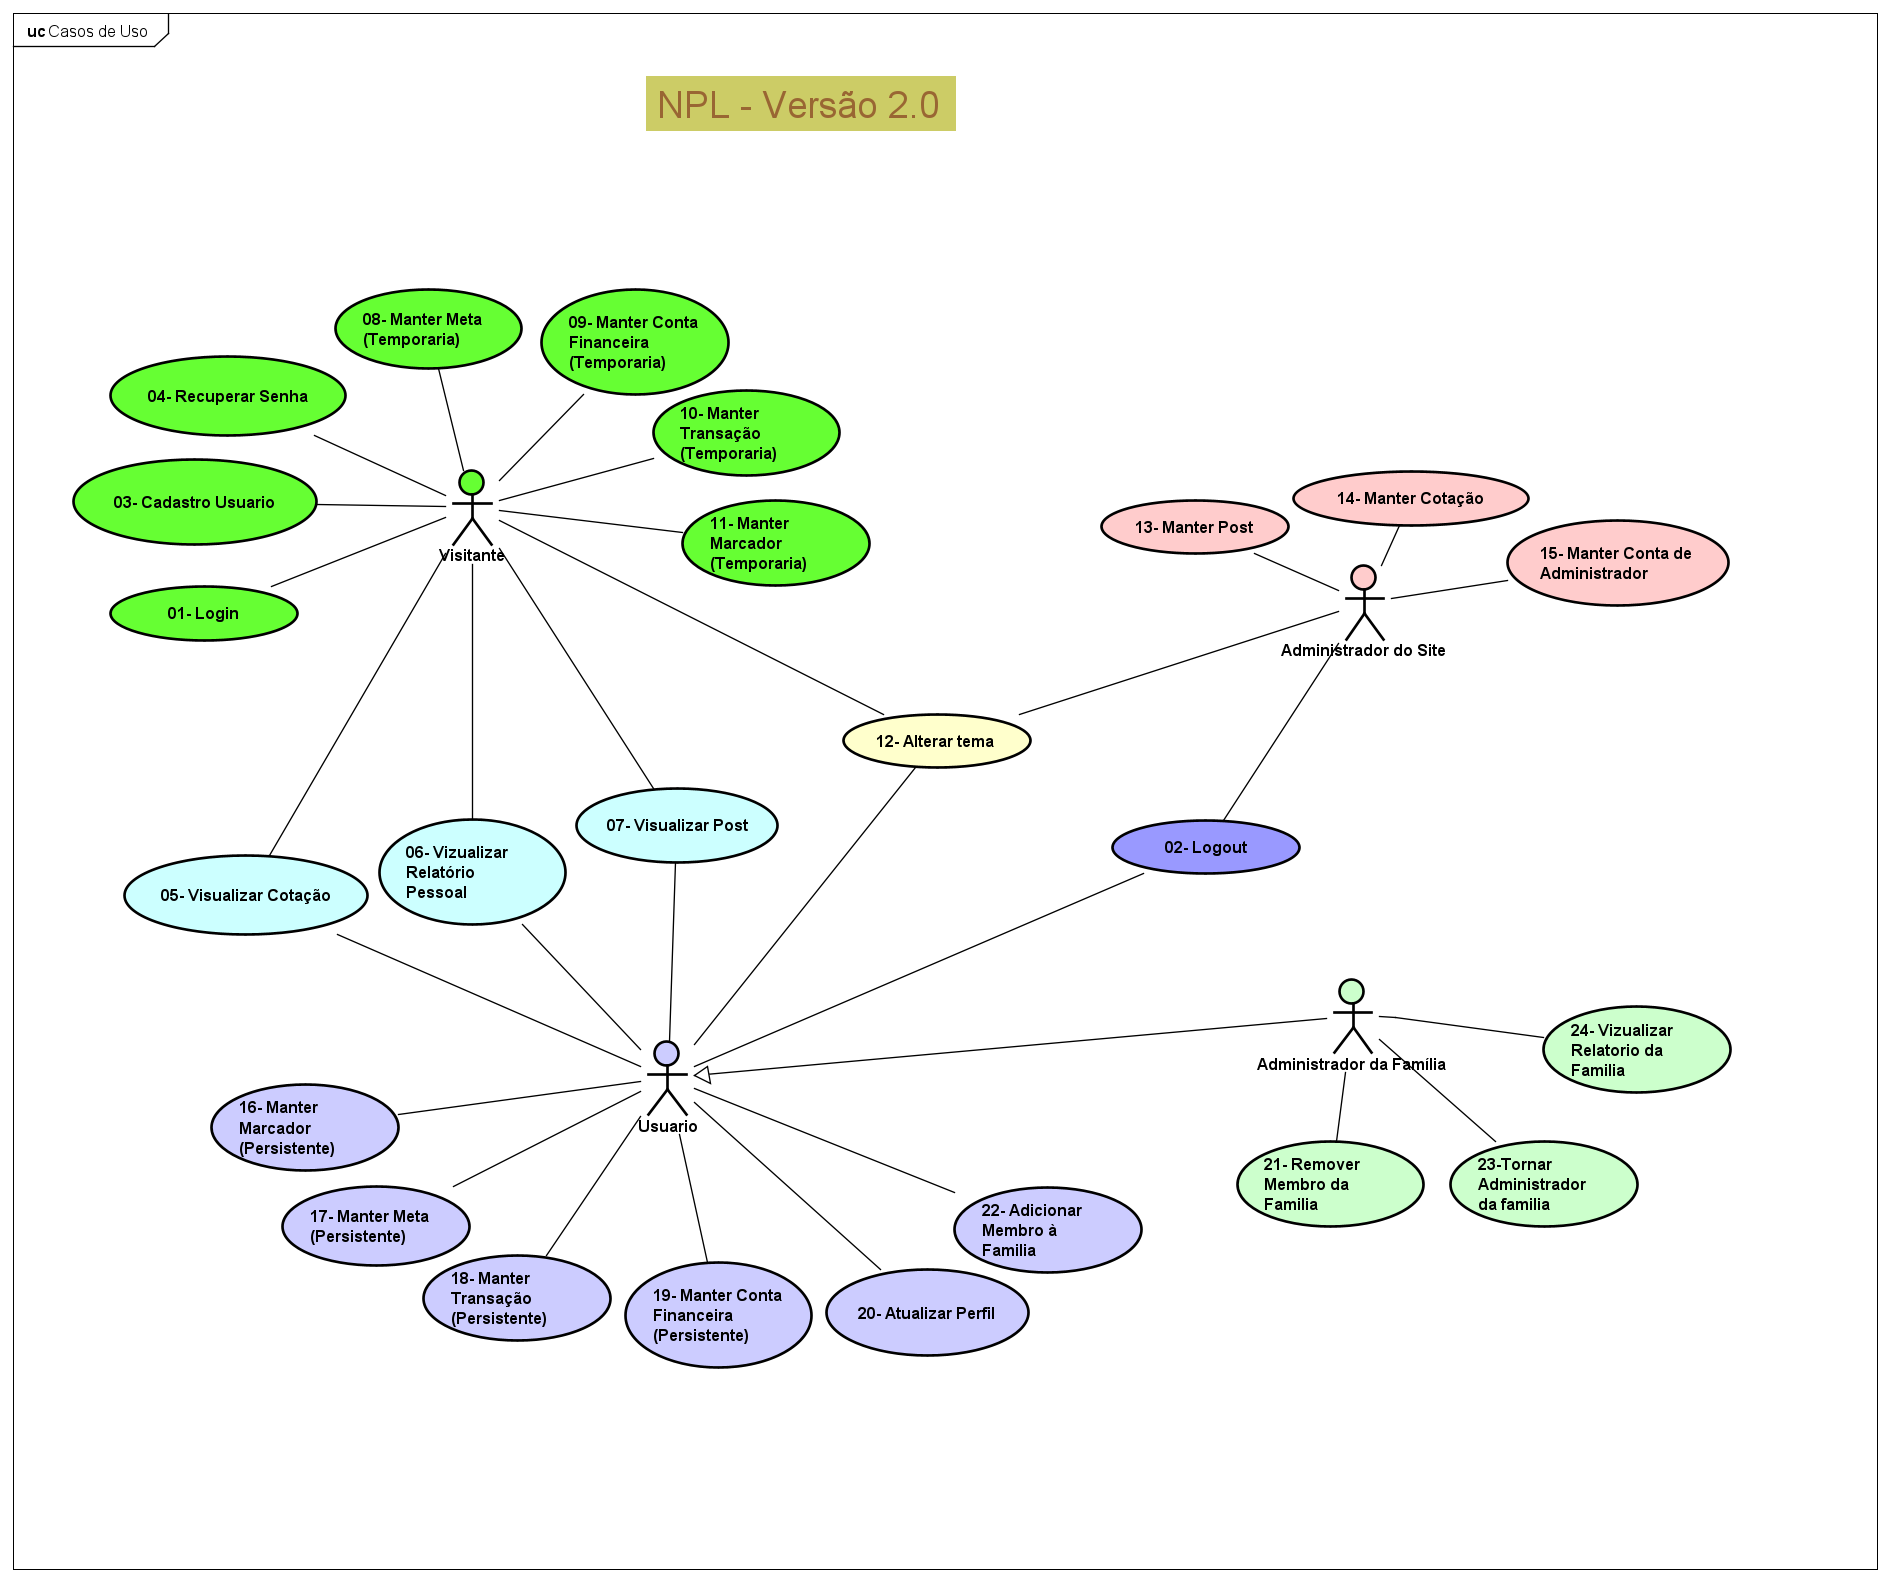
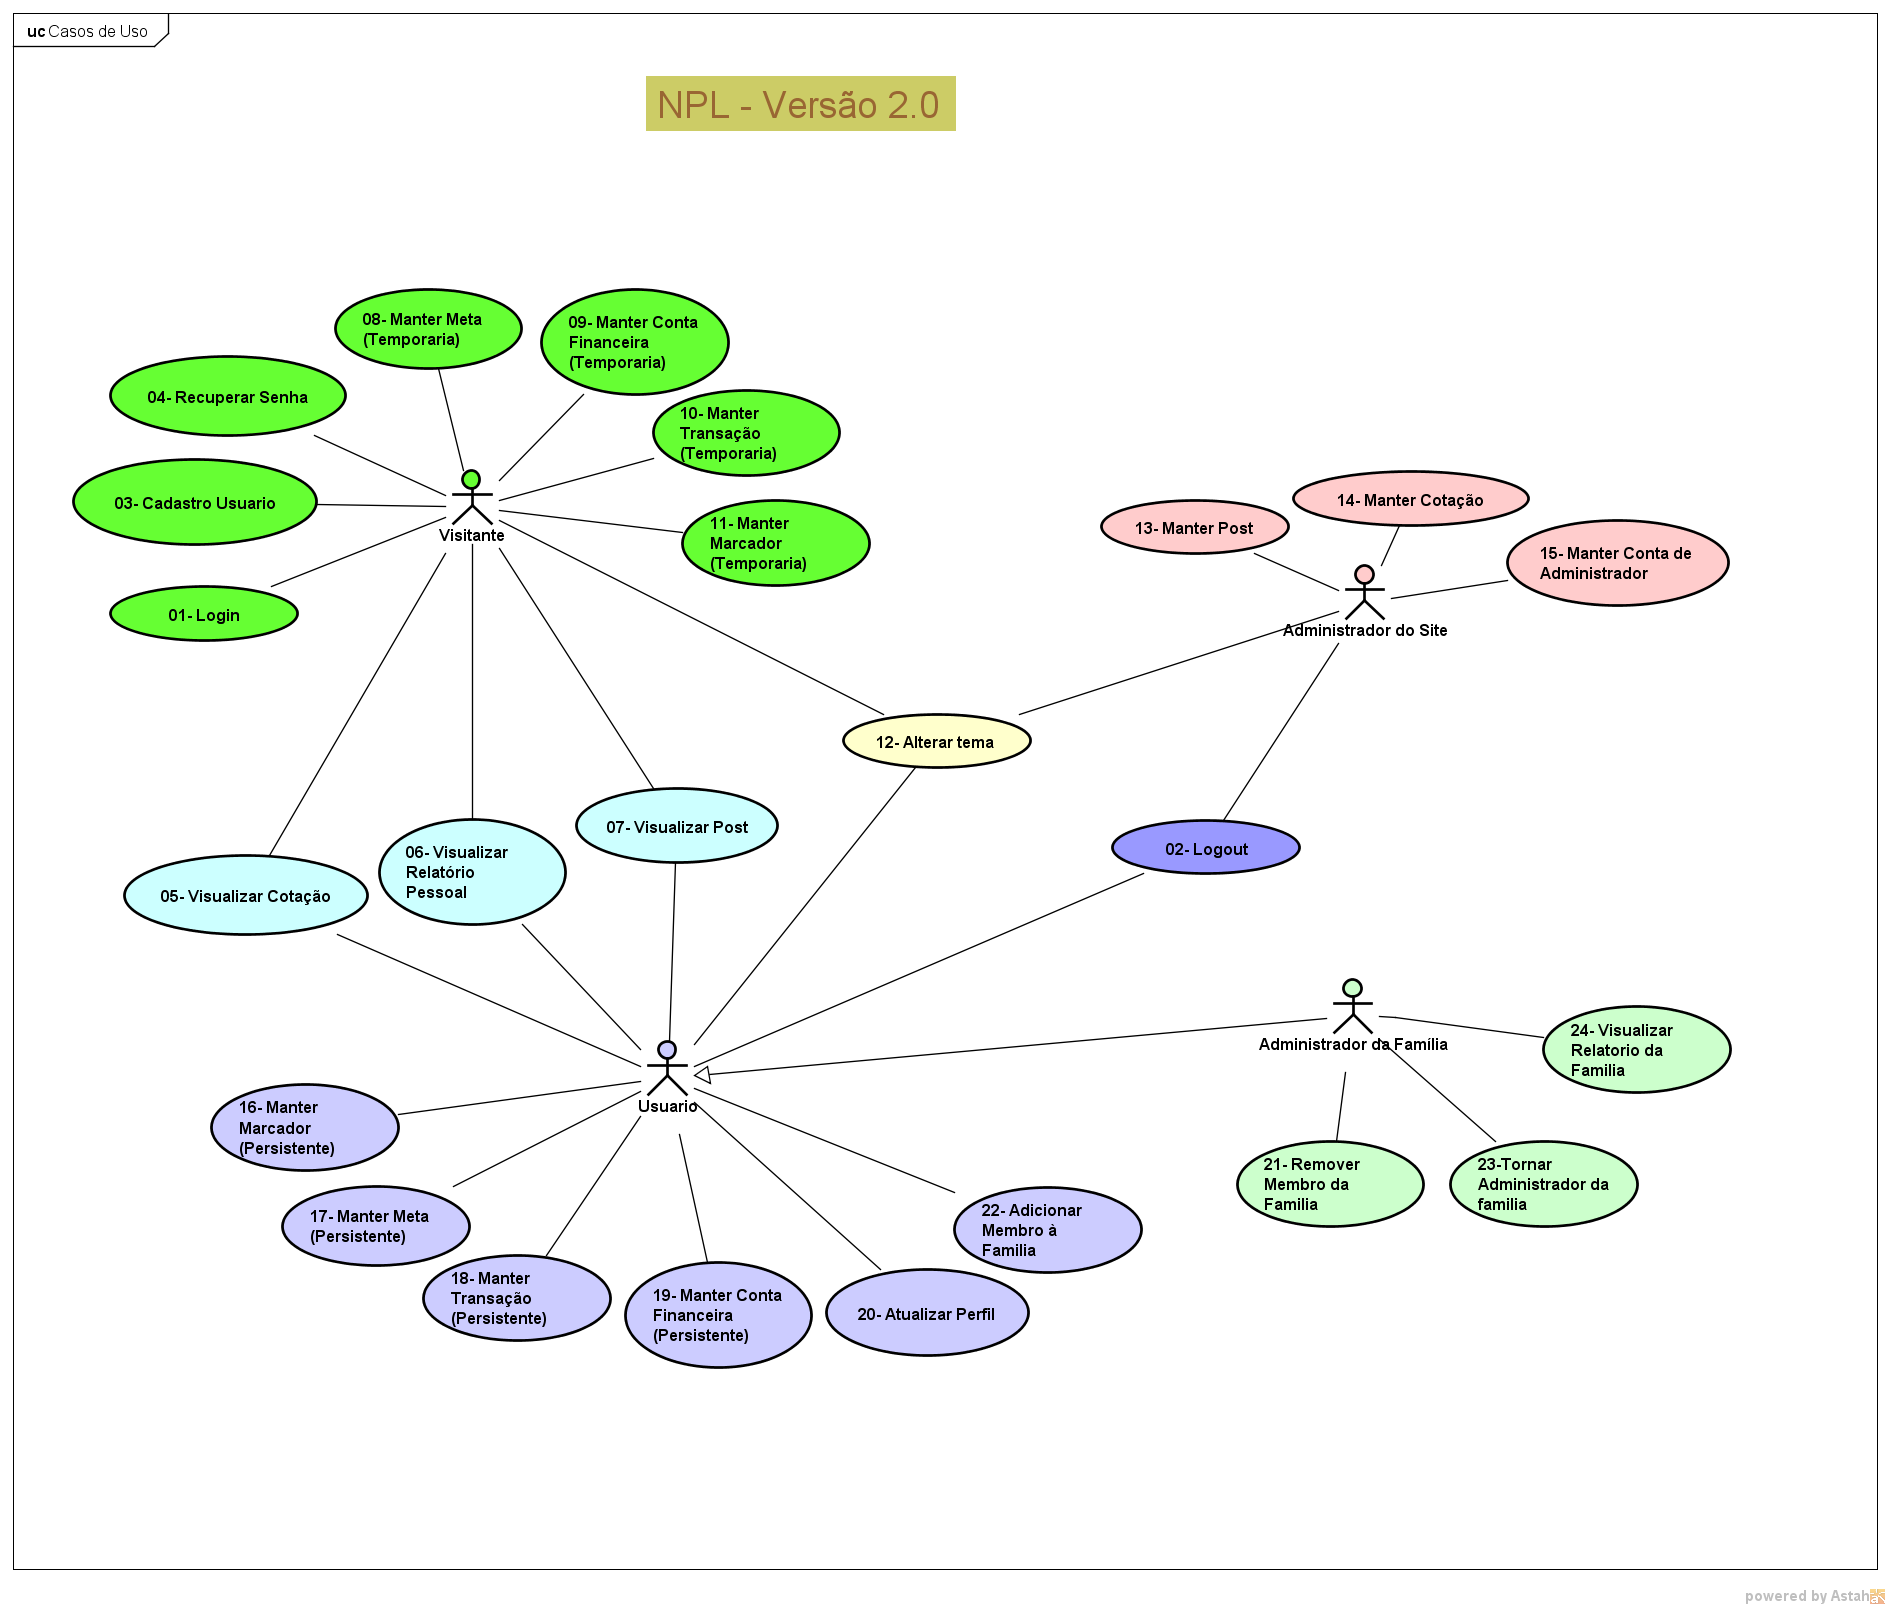
ajustando cdu-marcador

diff --git a/doc/cdu/cdu-11/detalhamento-11.md b/doc/cdu/cdu-11/detalhamento-11.md
@@ -1,39 +1,41 @@
-# CDU 11. Nome...
+# CDU 16. Manter Marcador (Temporário)
 
-- **Ator principal**: ...
-
-- **Atores secundários**: ...
-- **Resumo**: ...
-- **Pré-condição**: ...
-- **Pós-Condição**: ...
+- **Ator principal**: Visitante
+- **Atores secundários**: Não tem
+- **Resumo**: O visitante pode criar marcador, remover e atualizar para separar em grupos os seus gastos, porém nenhuma das ações refletirá na DB, somente na sessão do usuario anônimo de forma temporária.
+- **Pré-condição**: N/A
+- **Pós-Condição**: N/A
 
 ## Fluxo Principal
 
 | Ações do ator | Ações do sistema |
 | :-----------------: | :-----------------: |
-| 1 - ... | |
-| | 2 - ... |
+| 1 - O visitante tenta cria uma nova marcador. | |
+| | 2 - O sistema valida se não exite outra marcador com o mesmo nome. |
+| | 3 - Após a validação uma nova marcador é criada. |
 
-## Fluxo Alternativo I - ...
-
-| Ações do ator | Ações do sistema |
-| :-----------------: |:-----------------: |
-| 1.1 - ... | |  
-| | 1.2 - ... |
-
-## Fluxo Alternativo II - ...
+## Fluxo de Excessão
 
 | Ações do ator | Ações do sistema |
 | :-----------------: | :-----------------: |
-| 2.1 - ... | |  
-| | 2.2 - ... |  
+| | 2.1 - Caso haja uma marcador com o nome informado ela é rejeitada. |
+| | 3.1 - Um alerta aparece para o visitante informar um novo nome. |
+| | 4.1 - Retorna ao passo 2. |
 
-> Obs. as seções a seguir apenas serão utilizadas na segunda unidade do PDSWeb (segundo orientações do gerente do projeto).
+## Fluxo Alternativo I - Editar
 
-## Diagrama de Interação (Sequência ou Comunicação)
+| Ações do ator | Ações do sistema |
+| :-----------------: |:-----------------: |
+| 3.1 - O visitante tenta editar uma marcador existente. | |
+| | 4.1 - O sistema valida o novo nome da marcador. |
+| | 5.1 - A marcador é atualizada. |
 
-> Substituir pela imagem correspondente...
+## Fluxo Alternativo II - Remover
 
-## Diagrama de Classes de Projeto
+| Ações do ator | Ações do sistema |
+| :-----------------: | :-----------------: |
+| 3.2 - O visitante inicia a exlusão de uma marcador. | |
+| | 4.2 - O sistema verifica se a marcador esta vazia. |
+| | 5.2 - Se estiver vazia é apagada imediatamente. |
+| | 6.2 - Caso não esteja o sistema remove em cascata os dados daquela marcador. |
 
-> Substituir pela imagem contendo as classes (modelo, visão e templates) que implementam o respectivo CDU...

diff --git a/doc/cdu/cdu-16/detalhamento-16.md b/doc/cdu/cdu-16/detalhamento-16.md
@@ -1,9 +1,9 @@
-# CDU 16. Manter Categoria (Persistente)
+# CDU 16. Manter Marcador (Persistente)
 
 - **Ator principal**: Usuário
 
 - **Atores secundários**: Não tem
-- **Resumo**: O usuário pode criar categorias, remover e atualizar para separar em grupos os seus gastos.
+- **Resumo**: O usuário pode criar marcador, remover e atualizar para separar em grupos os seus gastos.
 - **Pré-condição**: O usuário deve estar autenticado.
 - **Pós-Condição**: ...
 
@@ -11,15 +11,15 @@
 
 | Ações do ator | Ações do sistema |
 | :-----------------: | :-----------------: |
-| 1 - O usuário tenta cria uma nova categoria. | |
-| | 2 - O sistema valida se não exite outra categoria com o mesmo nome. |
-| | 3 - Após a validação uma nova categoria é criada. |
+| 1 - O usuário tenta cria uma nova marcador. | |
+| | 2 - O sistema valida se não exite outra marcador com o mesmo nome. |
+| | 3 - Após a validação uma nova marcador é criada. |
 
 ## Fluxo de Excessão
 
 | Ações do ator | Ações do sistema |
 | :-----------------: | :-----------------: |
-| | 2.1 - Caso haja uma categoria com o nome informado ela é rejeitada. |
+| | 2.1 - Caso haja uma marcador com o nome informado ela é rejeitada. |
 | | 3.1 - Um alerta aparece para o usuário informar um novo nome. |
 | | 4.1 - Retorna ao passo 2. |
 
@@ -27,18 +27,18 @@
 
 | Ações do ator | Ações do sistema |
 | :-----------------: |:-----------------: |
-| 3.1 - O usuário tenta editar uma categoria existente. | |
-| | 4.1 - O sistema valida o novo nome da categoria. |
-| | 5.1 - A categoria é atualizada. |
+| 3.1 - O usuário tenta editar uma marcador existente. | |
+| | 4.1 - O sistema valida o novo nome da marcador. |
+| | 5.1 - A marcador é atualizada. |
 
 ## Fluxo Alternativo II - Remover
 
 | Ações do ator | Ações do sistema |
 | :-----------------: | :-----------------: |
-| 3.2 - O usuário inicia a exlusão de uma categoria. | |
-| | 4.2 - O sistema verifica se a categoria esta vazia. |
+| 3.2 - O usuário inicia a exlusão de uma marcador. | |
+| | 4.2 - O sistema verifica se a marcador esta vazia. |
 | | 5.2 - Se estiver vazia é apagada imediatamente. |
-| | 6.2 - Caso não esteja o sistema remove em cascata os dados daquela categoria. |
+| | 6.2 - Caso não esteja o sistema remove em cascata os dados daquela marcador. |
 
 > Obs. as seções a seguir apenas serão utilizadas na segunda unidade do PDSWeb (segundo orientações do gerente do projeto).
 

diff --git a/doc/cdu/cdu.md b/doc/cdu/cdu.md
@@ -14,7 +14,6 @@
 ## 2. Listagem dos Detalhamentos dos Casos de Uso
 
 1. [CDU-01 - Login](./cdu-01/detalhamento-01.md) :white_check_mark:
-
 1. [CDU-02 - Logout](./cdu-02/detalhamento-02.md) :white_check_mark:
 1. [CDU-03 - Cadastro](./cdu-03/detalhamento-03.md) :white_check_mark:
 1. [CDU-04 - Recuperar Senha](./cdu-04/detalhamento-04.md) :white_check_mark:
@@ -24,12 +23,12 @@
 1. [CDU-08 - Manter Meta (Temporária)](./cdu-08/detalhamento-08.md)
 1. [CDU-09 - Manter Conta Financeira (Temporária)](./cdu-09/detalhamento-09.md)
 1. [CDU-10 - Manter Transação (Temporária)](./cdu-10/detalhamento-10.md)
-1. [CDU-11 - Manter Categoria (Temporária)](./cdu-11/detalhamento-11.md)
+1. [CDU-11 - Manter Marcador (Temporária)](./cdu-11/detalhamento-11.md) :white_check_mark:
 1. [CDU-12 - Alterar Tema](./cdu-12/detalhamento-12.md) :white_check_mark:
 1. [CDU-13 - Manter Post](./cdu-13/detalhamento-13.md) :white_check_mark:
 1. [CDU-14 - Manter Cotação](./cdu-14/detalhamento-14.md) :white_check_mark:
 1. [CDU-15 - Manter Conta de Administrador](./cdu-15/detalhamento-15.md) :white_check_mark:
-1. [CDU-16 - Manter Categoria (Persistente)](./cdu-16/detalhamento-16.md):white_check_mark:
+1. [CDU-16 - Manter Marcador (Persistente)](./cdu-16/detalhamento-16.md):white_check_mark:
 1. [CDU-17 - Manter Meta (Persistente)](./cdu-17/detalhamento-17.md) :white_check_mark:
 1. [CDU-18 - Manter Transação (Persistente)](./cdu-18/detalhamento-18.md) :white_check_mark:
 1. [CDU-19 - Manter Conta Financeira (Persistente)](./cdu-19/detalhamento-19.md) :white_check_mark: